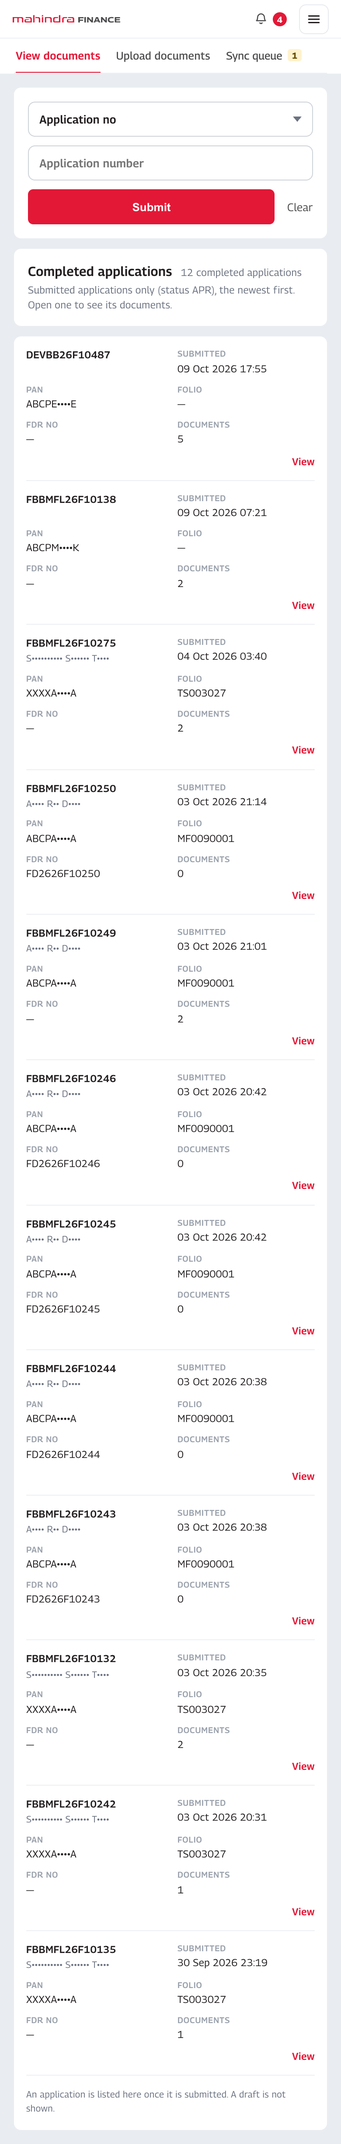
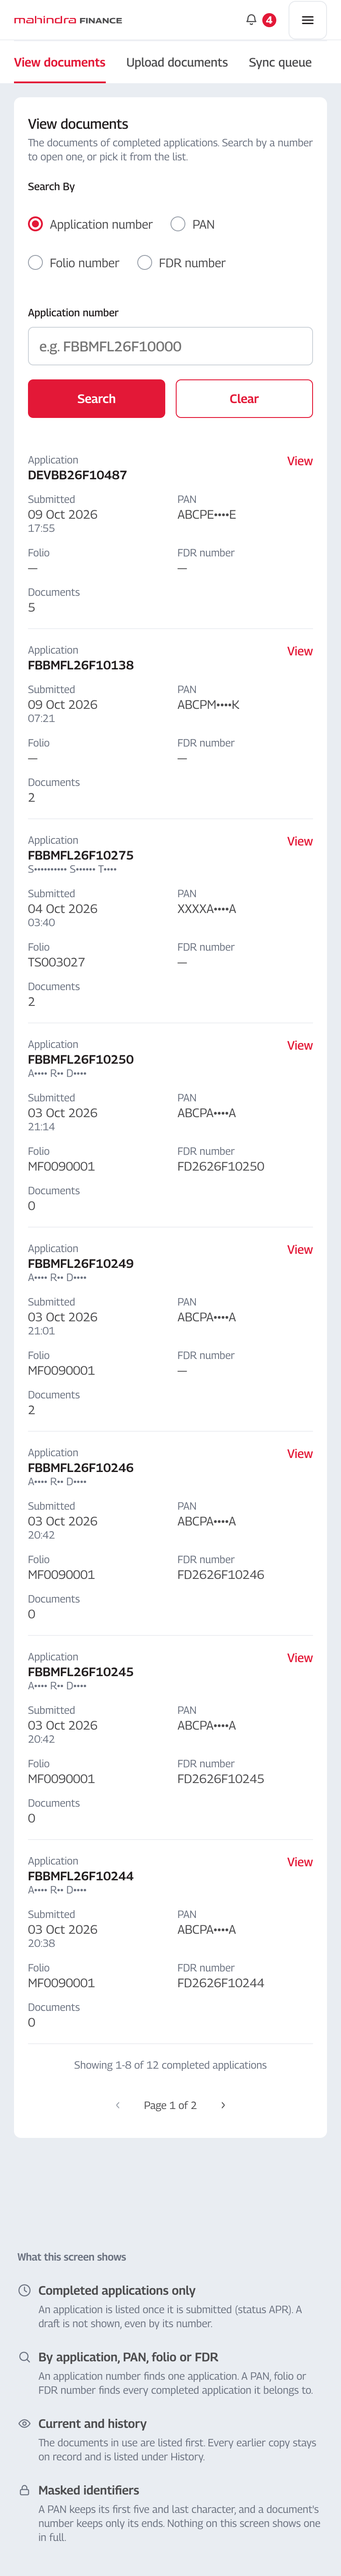
Screenshots: DMS Explorer retaken on Uno TP's look
Steps 72 to 83 again, now that DMS Explorer uses Uno TP's shared styles:
the page frame and its notes, the type, Search By with Search and Clear,
the list table with pages of eight, the blue filters and switch.

diff --git a/index.html b/index.html
@@ -61,7 +61,7 @@
   <div class="stage" id="stage"></div>
 </main>
 <script>
-var steps = [{"step": 1, "group": "Dashboard", "note": "Dashboard, with the incomplete applications", "desktop": "desktop/01-dashboard.png", "mobile": "mobile/01-dashboard.png"}, {"step": 2, "group": "Investor Identification", "note": "Investor Identification as it opens", "desktop": "desktop/02-search-empty.png", "mobile": "mobile/02-search-empty.png"}, {"step": 3, "group": "Investor Identification", "note": "PAN and date of birth not filled in properly", "desktop": "desktop/03-search-invalid.png", "mobile": "mobile/03-search-invalid.png"}, {"step": 4, "group": "Investor Identification", "note": "A PAN with no folio: new investor", "desktop": "desktop/04-search-new-investor.png", "mobile": "mobile/04-search-new-investor.png"}, {"step": 5, "group": "Investor Identification", "note": "A PAN on a folio: the record and the deposits held", "desktop": "desktop/05-search-folio-holder.png", "mobile": "mobile/05-search-folio-holder.png"}, {"step": 6, "group": "Upload Documents - fresh investor", "note": "Upload Documents as a new application opens", "desktop": "desktop/06-upload-opened.png", "mobile": "mobile/06-upload-opened.png"}, {"step": 7, "group": "Upload Documents - fresh investor", "note": "Proceed with nothing filed: what is missing", "desktop": "desktop/07-upload-proceed-nothing-filed.png", "mobile": "mobile/07-upload-proceed-nothing-filed.png"}, {"step": 8, "group": "Upload Documents - fresh investor", "note": "PAN copy filed: read by OCR and verified with NSDL", "desktop": "desktop/08-upload-pan-verified.png", "mobile": "mobile/08-upload-pan-verified.png"}, {"step": 9, "group": "Upload Documents - fresh investor", "note": "Proof of address filed: a passport, address read off it", "desktop": "desktop/09-upload-poa-passport.png", "mobile": "mobile/09-upload-poa-passport.png"}, {"step": 10, "group": "Upload Documents - fresh investor", "note": "Photograph filed", "desktop": "desktop/10-upload-photo.png", "mobile": "mobile/10-upload-photo.png"}, {"step": 11, "group": "Upload Documents - fresh investor", "note": "A physical application, as a new one starts: the signed application form filed", "desktop": "desktop/11-upload-application-form.png", "mobile": "mobile/11-upload-application-form.png"}, {"step": 12, "group": "Upload Documents - fresh investor", "note": "Payment mode Cheque, with the cheque copy", "desktop": "desktop/12-upload-payment-cheque.png", "mobile": "mobile/12-upload-payment-cheque.png"}, {"step": 13, "group": "Upload Documents - fresh investor", "note": "Sourcing chosen and the form number typed; the category is set by the app", "desktop": "desktop/13-upload-sourcing-and-category.png", "mobile": "mobile/13-upload-sourcing-and-category.png"}, {"step": 14, "group": "Upload Documents - fresh investor", "note": "Upload Documents with everything on it", "desktop": "desktop/14-upload-complete.png", "mobile": "mobile/14-upload-complete.png"}, {"step": 15, "group": "Upload Documents - cases", "note": "NSDL holds the PAN and date of birth under another name: the name is typed", "desktop": "desktop/15-upload-nsdl-name-differs.png", "mobile": "mobile/15-upload-nsdl-name-differs.png"}, {"step": 16, "group": "Upload Documents - cases", "note": "NSDL does not hold the PAN and date of birth: upload again", "desktop": "desktop/16-upload-nsdl-failed.png", "mobile": "mobile/16-upload-nsdl-failed.png"}, {"step": 17, "group": "Upload Documents - cases", "note": "NSDL not answering", "desktop": "desktop/17-upload-nsdl-not-answering.png", "mobile": "mobile/17-upload-nsdl-not-answering.png"}, {"step": 18, "group": "Upload Documents - cases", "note": "Aadhaar as proof of address: last 4 digits read, the first 8 are typed", "desktop": "desktop/18-upload-aadhaar-last-four.png", "mobile": "mobile/18-upload-aadhaar-last-four.png"}, {"step": 19, "group": "Upload Documents - cases", "note": "Aadhaar number completed: PAN-Aadhaar link checked", "desktop": "desktop/19-upload-aadhaar-number-entered.png", "mobile": "mobile/19-upload-aadhaar-number-entered.png"}, {"step": 20, "group": "Upload Documents - cases", "note": "Aadhaar masking failed: nothing is filed", "desktop": "desktop/20-upload-aadhaar-masking-failed.png", "mobile": "mobile/20-upload-aadhaar-masking-failed.png"}, {"step": 21, "group": "Upload Documents - cases", "note": "Fetch from CKYC: the question before it is fetched", "desktop": "desktop/21-upload-fetch-from-ckyc.png", "mobile": "mobile/21-upload-fetch-from-ckyc.png"}, {"step": 22, "group": "Folio holder", "note": "Upload Documents for a holder on a folio: documents on record are not asked again", "desktop": "desktop/22-upload-folio-holder.png", "mobile": "mobile/22-upload-folio-holder.png"}, {"step": 23, "group": "Folio holder", "note": "Investor Information for a holder on a folio: details from the record", "desktop": "desktop/23-investor-folio-holder.png", "mobile": "mobile/23-investor-folio-holder.png"}, {"step": 24, "group": "Investor Information", "note": "Investor Information as it opens for a new investor", "desktop": "desktop/24-investor-opened.png", "mobile": "mobile/24-investor-opened.png"}, {"step": 25, "group": "Investor Information", "note": "Proceed with nothing entered, the nominee question skipped: each field says what it needs", "desktop": "desktop/25-investor-proceed-nothing-entered.png", "mobile": "mobile/25-investor-proceed-nothing-entered.png"}, {"step": 26, "group": "Investor Information", "note": "Investor Information filled in", "desktop": "desktop/26-investor-filled.png", "mobile": "mobile/26-investor-filled.png"}, {"step": 27, "group": "Investor Information", "note": "Proceed with no nominee: the question before going on", "desktop": "desktop/27-investor-nominee-question.png", "mobile": "mobile/27-investor-nominee-question.png"}, {"step": 28, "group": "Investor Information", "note": "Investor Information with a joint holder on the application", "desktop": "desktop/28-investor-with-joint-holder.png", "mobile": "mobile/28-investor-with-joint-holder.png"}, {"step": 29, "group": "Bank Details & Payment", "note": "Bank Details & Payment as it opens (payment by cheque)", "desktop": "desktop/29-bank-opened.png", "mobile": "mobile/29-bank-opened.png"}, {"step": 30, "group": "Bank Details & Payment", "note": "Proceed with no bank chosen", "desktop": "desktop/30-bank-proceed-nothing-entered.png", "mobile": "mobile/30-bank-proceed-nothing-entered.png"}, {"step": 31, "group": "Bank Details & Payment", "note": "Bank search as it is typed", "desktop": "desktop/31-bank-search-as-typed.png", "mobile": "mobile/31-bank-search-as-typed.png"}, {"step": 32, "group": "Bank Details & Payment", "note": "Payment and repayment accounts and the cheque details filled in", "desktop": "desktop/32-bank-filled.png", "mobile": "mobile/32-bank-filled.png"}, {"step": 33, "group": "FD Configuration", "note": "FD Configuration as it opens", "desktop": "desktop/33-deposit-opened.png", "mobile": "mobile/33-deposit-opened.png"}, {"step": 34, "group": "FD Configuration", "note": "Proceed with no amount", "desktop": "desktop/34-deposit-proceed-no-amount.png", "mobile": "mobile/34-deposit-proceed-no-amount.png"}, {"step": 35, "group": "FD Configuration", "note": "An amount entered: the rate and the quote", "desktop": "desktop/35-deposit-quote.png", "mobile": "mobile/35-deposit-quote.png"}, {"step": 36, "group": "FD Configuration", "note": "Deposits with us pass 1 crore and income is up to 5 lakh: source of funds asked", "desktop": "desktop/36-deposit-source-of-funds-asked.png", "mobile": "mobile/36-deposit-source-of-funds-asked.png"}, {"step": 37, "group": "Review Summary", "note": "Review Summary: nothing missing", "desktop": "desktop/37-review-ready.png", "mobile": "mobile/37-review-ready.png"}, {"step": 38, "group": "Review Summary", "note": "Review Summary with things still missing, by step", "desktop": "desktop/38-review-things-missing-folio.png", "mobile": "mobile/38-review-things-missing-folio.png"}, {"step": 39, "group": "Review Summary", "note": "Review Summary with nothing missing", "desktop": "desktop/39-review-ready-to-submit.png", "mobile": "mobile/39-review-ready-to-submit.png"}, {"step": 40, "group": "Review Summary", "note": "Submit Application: Try later, or Submit & send link", "desktop": "desktop/40-review-submit-popup.png", "mobile": "mobile/40-review-submit-popup.png"}, {"step": 41, "group": "Review Summary", "note": "Application Submitted after Try later: no link sent yet", "desktop": "desktop/41-submitted-no-link-yet.png", "mobile": "mobile/41-submitted-no-link-yet.png"}, {"step": 42, "group": "Review Summary", "note": "Application Submitted with the payment link sent", "desktop": "desktop/42-submitted-link-sent.png", "mobile": "mobile/42-submitted-link-sent.png"}, {"step": 43, "group": "Renew FD", "note": "Renew FD opens Investor Identification, where the investor is searched (switched off in settings; shown with its switch on)", "desktop": "desktop/43-renew-search-opened.png", "mobile": "mobile/43-renew-search-opened.png"}, {"step": 44, "group": "Renew FD", "note": "The investor searched by folio number", "desktop": "desktop/44-renew-search-by-folio.png", "mobile": "mobile/44-renew-search-by-folio.png"}, {"step": 45, "group": "Renew FD", "note": "After the search: the investor's record, and under it their deposits, each with where it stands. Renew is on the one that is due", "desktop": "desktop/45-renew-deposits-listed.png", "mobile": "mobile/45-renew-deposits-listed.png"}, {"step": 46, "group": "Renew FD", "note": "The deposits, with the renewal notes opened", "desktop": "desktop/46-renew-notes-opened.png", "mobile": "mobile/46-renew-notes-opened.png"}, {"step": 47, "group": "Renew FD", "note": "Renew pressed: the renewal opens at Upload Documents, naming the deposit it renews. No payment: the maturing deposit pays for the new one", "desktop": "desktop/47-renew-upload-opened.png", "mobile": "mobile/47-renew-upload-opened.png"}, {"step": 48, "group": "Renew FD", "note": "Investor Information of the renewal: the holder from the folio record", "desktop": "desktop/48-renew-investor.png", "mobile": "mobile/48-renew-investor.png"}, {"step": 49, "group": "Renew FD", "note": "Bank Details of the renewal: only the repayment account, filled in from the deposit being renewed", "desktop": "desktop/49-renew-bank.png", "mobile": "mobile/49-renew-bank.png"}, {"step": 50, "group": "Renew FD", "note": "FD Configuration of the renewal: the amount is the maturity amount of the deposit, with Renewal for", "desktop": "desktop/50-renew-deposit.png", "mobile": "mobile/50-renew-deposit.png"}, {"step": 51, "group": "Renew FD", "note": "Review Summary of the renewal, with what is still missing", "desktop": "desktop/51-renew-review.png", "mobile": "mobile/51-renew-review.png"}, {"step": 52, "group": "Renew FD", "note": "Back on Investor Identification: the deposit now says Renewal in progress, with Continue and Cancel request", "desktop": "desktop/52-renew-in-progress.png", "mobile": "mobile/52-renew-in-progress.png"}, {"step": 53, "group": "Renew FD", "note": "Cancel request, once confirmed: the renewal is cancelled and the deposit is due for renewal again", "desktop": "desktop/53-renew-cancelled.png", "mobile": "mobile/53-renew-cancelled.png"}, {"step": 54, "group": "Lists", "note": "View Application: the list (switched off in settings; shown with its switch on)", "desktop": "desktop/54-view-application-list.png", "mobile": "mobile/54-view-application-list.png"}, {"step": 55, "group": "Lists", "note": "View Application: found by application number", "desktop": "desktop/55-view-application-by-number.png", "mobile": "mobile/55-view-application-by-number.png"}, {"step": 56, "group": "Lists", "note": "View Application: the details sheet", "desktop": "desktop/56-view-application-details.png", "mobile": "mobile/56-view-application-details.png"}, {"step": 57, "group": "Lists", "note": "PIS Generation - Axis (switched off in settings; shown with its switch on)", "desktop": "desktop/57-pay-in-slips.png", "mobile": "mobile/57-pay-in-slips.png"}, {"step": 58, "group": "Lists", "note": "Short URL (switched off in settings; shown with its switch on)", "desktop": "desktop/58-short-url.png", "mobile": "mobile/58-short-url.png"}, {"step": 59, "group": "Lists", "note": "Console Admin (switched off in settings; shown with its switch on)", "desktop": "desktop/59-console-admin.png", "mobile": "mobile/59-console-admin.png"}, {"step": 60, "group": "Other pages", "note": "Session expired", "desktop": "desktop/60-session-expired.png", "mobile": "mobile/60-session-expired.png"}, {"step": 61, "group": "Other pages", "note": "Not authorised", "desktop": "desktop/61-unauthorized.png", "mobile": "mobile/61-unauthorized.png"}, {"step": 62, "group": "Other pages", "note": "Too many requests", "desktop": "desktop/62-too-many-requests.png", "mobile": "mobile/62-too-many-requests.png"}, {"step": 63, "group": "Other pages", "note": "Something went wrong", "desktop": "desktop/63-error.png", "mobile": "mobile/63-error.png"}, {"step": 64, "group": "Other pages", "note": "Page expired", "desktop": "desktop/64-page-expired.png", "mobile": "mobile/64-page-expired.png"}, {"step": 65, "group": "OVD Explorer", "note": "OVD Explorer as it opens", "desktop": "desktop/65-ovd-empty.png", "mobile": "mobile/65-ovd-empty.png"}, {"step": 66, "group": "OVD Explorer", "note": "Looked up by application number: its officially valid documents", "desktop": "desktop/66-ovd-application.png", "mobile": "mobile/66-ovd-application.png"}, {"step": 67, "group": "OVD Explorer", "note": "Another document opened in the details panel", "desktop": "desktop/67-ovd-second-document.png", "mobile": "mobile/67-ovd-second-document.png"}, {"step": 68, "group": "OVD Explorer", "note": "Filtered to the verified documents", "desktop": "desktop/68-ovd-verified-only.png", "mobile": "mobile/68-ovd-verified-only.png"}, {"step": 69, "group": "OVD Explorer", "note": "Looked up by PAN: every completed application of that holder", "desktop": "desktop/69-ovd-pan.png", "mobile": "mobile/69-ovd-pan.png"}, {"step": 70, "group": "OVD Explorer", "note": "Looked up by folio number", "desktop": "desktop/70-ovd-folio.png", "mobile": "mobile/70-ovd-folio.png"}, {"step": 71, "group": "OVD Explorer", "note": "A draft application is not shown: only completed ones are", "desktop": "desktop/71-ovd-draft-not-found.png", "mobile": "mobile/71-ovd-draft-not-found.png"}, {"step": 72, "group": "DMS Explorer", "note": "View documents: the completed applications (status APR), newest first", "desktop": "desktop/72-dms-completed-applications.png", "mobile": "mobile/72-dms-completed-applications.png"}, {"step": 73, "group": "DMS Explorer", "note": "An application opened: the documents in use on it", "desktop": "desktop/73-dms-application-documents.png", "mobile": "mobile/73-dms-application-documents.png"}, {"step": 74, "group": "DMS Explorer", "note": "Another document opened in the viewer", "desktop": "desktop/74-dms-document-viewed.png", "mobile": "mobile/74-dms-document-viewed.png"}, {"step": 75, "group": "DMS Explorer", "note": "Filtered to the FD class: the application's own documents", "desktop": "desktop/75-dms-class-filter.png", "mobile": "mobile/75-dms-class-filter.png"}, {"step": 76, "group": "DMS Explorer", "note": "History: every copy filed on the application, newest first", "desktop": "desktop/76-dms-history.png", "mobile": "mobile/76-dms-history.png"}, {"step": 77, "group": "DMS Explorer", "note": "Looked up by PAN: every completed application it belongs to", "desktop": "desktop/77-dms-lookup-by-pan.png", "mobile": "mobile/77-dms-lookup-by-pan.png"}, {"step": 78, "group": "DMS Explorer", "note": "Looked up by FDR number: a completed application with no documents recorded", "desktop": "desktop/78-dms-no-documents.png", "mobile": "mobile/78-dms-no-documents.png"}, {"step": 79, "group": "DMS Explorer", "note": "A draft looked up by its number: only a completed application is shown", "desktop": "desktop/79-dms-not-completed.png", "mobile": "mobile/79-dms-not-completed.png"}, {"step": 80, "group": "DMS Explorer", "note": "Upload documents as it opens (prototype)", "desktop": "desktop/80-dms-upload-opened.png", "mobile": "mobile/80-dms-upload-opened.png"}, {"step": 81, "group": "DMS Explorer", "note": "Upload pressed with nothing entered", "desktop": "desktop/81-dms-upload-nothing-entered.png", "mobile": "mobile/81-dms-upload-nothing-entered.png"}, {"step": 82, "group": "DMS Explorer", "note": "Upload documents filled in: the name the file will be filed as", "desktop": "desktop/82-dms-upload-filled.png", "mobile": "mobile/82-dms-upload-filled.png"}, {"step": 83, "group": "DMS Explorer", "note": "Uploaded (prototype: nothing is sent or stored)", "desktop": "desktop/83-dms-upload-done.png", "mobile": "mobile/83-dms-upload-done.png"}];
+var steps = [{"step": 1, "group": "Dashboard", "note": "Dashboard, with the incomplete applications", "desktop": "desktop/01-dashboard.png", "mobile": "mobile/01-dashboard.png"}, {"step": 2, "group": "Investor Identification", "note": "Investor Identification as it opens", "desktop": "desktop/02-search-empty.png", "mobile": "mobile/02-search-empty.png"}, {"step": 3, "group": "Investor Identification", "note": "PAN and date of birth not filled in properly", "desktop": "desktop/03-search-invalid.png", "mobile": "mobile/03-search-invalid.png"}, {"step": 4, "group": "Investor Identification", "note": "A PAN with no folio: new investor", "desktop": "desktop/04-search-new-investor.png", "mobile": "mobile/04-search-new-investor.png"}, {"step": 5, "group": "Investor Identification", "note": "A PAN on a folio: the record and the deposits held", "desktop": "desktop/05-search-folio-holder.png", "mobile": "mobile/05-search-folio-holder.png"}, {"step": 6, "group": "Upload Documents - fresh investor", "note": "Upload Documents as a new application opens", "desktop": "desktop/06-upload-opened.png", "mobile": "mobile/06-upload-opened.png"}, {"step": 7, "group": "Upload Documents - fresh investor", "note": "Proceed with nothing filed: what is missing", "desktop": "desktop/07-upload-proceed-nothing-filed.png", "mobile": "mobile/07-upload-proceed-nothing-filed.png"}, {"step": 8, "group": "Upload Documents - fresh investor", "note": "PAN copy filed: read by OCR and verified with NSDL", "desktop": "desktop/08-upload-pan-verified.png", "mobile": "mobile/08-upload-pan-verified.png"}, {"step": 9, "group": "Upload Documents - fresh investor", "note": "Proof of address filed: a passport, address read off it", "desktop": "desktop/09-upload-poa-passport.png", "mobile": "mobile/09-upload-poa-passport.png"}, {"step": 10, "group": "Upload Documents - fresh investor", "note": "Photograph filed", "desktop": "desktop/10-upload-photo.png", "mobile": "mobile/10-upload-photo.png"}, {"step": 11, "group": "Upload Documents - fresh investor", "note": "A physical application, as a new one starts: the signed application form filed", "desktop": "desktop/11-upload-application-form.png", "mobile": "mobile/11-upload-application-form.png"}, {"step": 12, "group": "Upload Documents - fresh investor", "note": "Payment mode Cheque, with the cheque copy", "desktop": "desktop/12-upload-payment-cheque.png", "mobile": "mobile/12-upload-payment-cheque.png"}, {"step": 13, "group": "Upload Documents - fresh investor", "note": "Sourcing chosen and the form number typed; the category is set by the app", "desktop": "desktop/13-upload-sourcing-and-category.png", "mobile": "mobile/13-upload-sourcing-and-category.png"}, {"step": 14, "group": "Upload Documents - fresh investor", "note": "Upload Documents with everything on it", "desktop": "desktop/14-upload-complete.png", "mobile": "mobile/14-upload-complete.png"}, {"step": 15, "group": "Upload Documents - cases", "note": "NSDL holds the PAN and date of birth under another name: the name is typed", "desktop": "desktop/15-upload-nsdl-name-differs.png", "mobile": "mobile/15-upload-nsdl-name-differs.png"}, {"step": 16, "group": "Upload Documents - cases", "note": "NSDL does not hold the PAN and date of birth: upload again", "desktop": "desktop/16-upload-nsdl-failed.png", "mobile": "mobile/16-upload-nsdl-failed.png"}, {"step": 17, "group": "Upload Documents - cases", "note": "NSDL not answering", "desktop": "desktop/17-upload-nsdl-not-answering.png", "mobile": "mobile/17-upload-nsdl-not-answering.png"}, {"step": 18, "group": "Upload Documents - cases", "note": "Aadhaar as proof of address: last 4 digits read, the first 8 are typed", "desktop": "desktop/18-upload-aadhaar-last-four.png", "mobile": "mobile/18-upload-aadhaar-last-four.png"}, {"step": 19, "group": "Upload Documents - cases", "note": "Aadhaar number completed: PAN-Aadhaar link checked", "desktop": "desktop/19-upload-aadhaar-number-entered.png", "mobile": "mobile/19-upload-aadhaar-number-entered.png"}, {"step": 20, "group": "Upload Documents - cases", "note": "Aadhaar masking failed: nothing is filed", "desktop": "desktop/20-upload-aadhaar-masking-failed.png", "mobile": "mobile/20-upload-aadhaar-masking-failed.png"}, {"step": 21, "group": "Upload Documents - cases", "note": "Fetch from CKYC: the question before it is fetched", "desktop": "desktop/21-upload-fetch-from-ckyc.png", "mobile": "mobile/21-upload-fetch-from-ckyc.png"}, {"step": 22, "group": "Folio holder", "note": "Upload Documents for a holder on a folio: documents on record are not asked again", "desktop": "desktop/22-upload-folio-holder.png", "mobile": "mobile/22-upload-folio-holder.png"}, {"step": 23, "group": "Folio holder", "note": "Investor Information for a holder on a folio: details from the record", "desktop": "desktop/23-investor-folio-holder.png", "mobile": "mobile/23-investor-folio-holder.png"}, {"step": 24, "group": "Investor Information", "note": "Investor Information as it opens for a new investor", "desktop": "desktop/24-investor-opened.png", "mobile": "mobile/24-investor-opened.png"}, {"step": 25, "group": "Investor Information", "note": "Proceed with nothing entered, the nominee question skipped: each field says what it needs", "desktop": "desktop/25-investor-proceed-nothing-entered.png", "mobile": "mobile/25-investor-proceed-nothing-entered.png"}, {"step": 26, "group": "Investor Information", "note": "Investor Information filled in", "desktop": "desktop/26-investor-filled.png", "mobile": "mobile/26-investor-filled.png"}, {"step": 27, "group": "Investor Information", "note": "Proceed with no nominee: the question before going on", "desktop": "desktop/27-investor-nominee-question.png", "mobile": "mobile/27-investor-nominee-question.png"}, {"step": 28, "group": "Investor Information", "note": "Investor Information with a joint holder on the application", "desktop": "desktop/28-investor-with-joint-holder.png", "mobile": "mobile/28-investor-with-joint-holder.png"}, {"step": 29, "group": "Bank Details & Payment", "note": "Bank Details & Payment as it opens (payment by cheque)", "desktop": "desktop/29-bank-opened.png", "mobile": "mobile/29-bank-opened.png"}, {"step": 30, "group": "Bank Details & Payment", "note": "Proceed with no bank chosen", "desktop": "desktop/30-bank-proceed-nothing-entered.png", "mobile": "mobile/30-bank-proceed-nothing-entered.png"}, {"step": 31, "group": "Bank Details & Payment", "note": "Bank search as it is typed", "desktop": "desktop/31-bank-search-as-typed.png", "mobile": "mobile/31-bank-search-as-typed.png"}, {"step": 32, "group": "Bank Details & Payment", "note": "Payment and repayment accounts and the cheque details filled in", "desktop": "desktop/32-bank-filled.png", "mobile": "mobile/32-bank-filled.png"}, {"step": 33, "group": "FD Configuration", "note": "FD Configuration as it opens", "desktop": "desktop/33-deposit-opened.png", "mobile": "mobile/33-deposit-opened.png"}, {"step": 34, "group": "FD Configuration", "note": "Proceed with no amount", "desktop": "desktop/34-deposit-proceed-no-amount.png", "mobile": "mobile/34-deposit-proceed-no-amount.png"}, {"step": 35, "group": "FD Configuration", "note": "An amount entered: the rate and the quote", "desktop": "desktop/35-deposit-quote.png", "mobile": "mobile/35-deposit-quote.png"}, {"step": 36, "group": "FD Configuration", "note": "Deposits with us pass 1 crore and income is up to 5 lakh: source of funds asked", "desktop": "desktop/36-deposit-source-of-funds-asked.png", "mobile": "mobile/36-deposit-source-of-funds-asked.png"}, {"step": 37, "group": "Review Summary", "note": "Review Summary: nothing missing", "desktop": "desktop/37-review-ready.png", "mobile": "mobile/37-review-ready.png"}, {"step": 38, "group": "Review Summary", "note": "Review Summary with things still missing, by step", "desktop": "desktop/38-review-things-missing-folio.png", "mobile": "mobile/38-review-things-missing-folio.png"}, {"step": 39, "group": "Review Summary", "note": "Review Summary with nothing missing", "desktop": "desktop/39-review-ready-to-submit.png", "mobile": "mobile/39-review-ready-to-submit.png"}, {"step": 40, "group": "Review Summary", "note": "Submit Application: Try later, or Submit & send link", "desktop": "desktop/40-review-submit-popup.png", "mobile": "mobile/40-review-submit-popup.png"}, {"step": 41, "group": "Review Summary", "note": "Application Submitted after Try later: no link sent yet", "desktop": "desktop/41-submitted-no-link-yet.png", "mobile": "mobile/41-submitted-no-link-yet.png"}, {"step": 42, "group": "Review Summary", "note": "Application Submitted with the payment link sent", "desktop": "desktop/42-submitted-link-sent.png", "mobile": "mobile/42-submitted-link-sent.png"}, {"step": 43, "group": "Renew FD", "note": "Renew FD opens Investor Identification, where the investor is searched (switched off in settings; shown with its switch on)", "desktop": "desktop/43-renew-search-opened.png", "mobile": "mobile/43-renew-search-opened.png"}, {"step": 44, "group": "Renew FD", "note": "The investor searched by folio number", "desktop": "desktop/44-renew-search-by-folio.png", "mobile": "mobile/44-renew-search-by-folio.png"}, {"step": 45, "group": "Renew FD", "note": "After the search: the investor's record, and under it their deposits, each with where it stands. Renew is on the one that is due", "desktop": "desktop/45-renew-deposits-listed.png", "mobile": "mobile/45-renew-deposits-listed.png"}, {"step": 46, "group": "Renew FD", "note": "The deposits, with the renewal notes opened", "desktop": "desktop/46-renew-notes-opened.png", "mobile": "mobile/46-renew-notes-opened.png"}, {"step": 47, "group": "Renew FD", "note": "Renew pressed: the renewal opens at Upload Documents, naming the deposit it renews. No payment: the maturing deposit pays for the new one", "desktop": "desktop/47-renew-upload-opened.png", "mobile": "mobile/47-renew-upload-opened.png"}, {"step": 48, "group": "Renew FD", "note": "Investor Information of the renewal: the holder from the folio record", "desktop": "desktop/48-renew-investor.png", "mobile": "mobile/48-renew-investor.png"}, {"step": 49, "group": "Renew FD", "note": "Bank Details of the renewal: only the repayment account, filled in from the deposit being renewed", "desktop": "desktop/49-renew-bank.png", "mobile": "mobile/49-renew-bank.png"}, {"step": 50, "group": "Renew FD", "note": "FD Configuration of the renewal: the amount is the maturity amount of the deposit, with Renewal for", "desktop": "desktop/50-renew-deposit.png", "mobile": "mobile/50-renew-deposit.png"}, {"step": 51, "group": "Renew FD", "note": "Review Summary of the renewal, with what is still missing", "desktop": "desktop/51-renew-review.png", "mobile": "mobile/51-renew-review.png"}, {"step": 52, "group": "Renew FD", "note": "Back on Investor Identification: the deposit now says Renewal in progress, with Continue and Cancel request", "desktop": "desktop/52-renew-in-progress.png", "mobile": "mobile/52-renew-in-progress.png"}, {"step": 53, "group": "Renew FD", "note": "Cancel request, once confirmed: the renewal is cancelled and the deposit is due for renewal again", "desktop": "desktop/53-renew-cancelled.png", "mobile": "mobile/53-renew-cancelled.png"}, {"step": 54, "group": "Lists", "note": "View Application: the list (switched off in settings; shown with its switch on)", "desktop": "desktop/54-view-application-list.png", "mobile": "mobile/54-view-application-list.png"}, {"step": 55, "group": "Lists", "note": "View Application: found by application number", "desktop": "desktop/55-view-application-by-number.png", "mobile": "mobile/55-view-application-by-number.png"}, {"step": 56, "group": "Lists", "note": "View Application: the details sheet", "desktop": "desktop/56-view-application-details.png", "mobile": "mobile/56-view-application-details.png"}, {"step": 57, "group": "Lists", "note": "PIS Generation - Axis (switched off in settings; shown with its switch on)", "desktop": "desktop/57-pay-in-slips.png", "mobile": "mobile/57-pay-in-slips.png"}, {"step": 58, "group": "Lists", "note": "Short URL (switched off in settings; shown with its switch on)", "desktop": "desktop/58-short-url.png", "mobile": "mobile/58-short-url.png"}, {"step": 59, "group": "Lists", "note": "Console Admin (switched off in settings; shown with its switch on)", "desktop": "desktop/59-console-admin.png", "mobile": "mobile/59-console-admin.png"}, {"step": 60, "group": "Other pages", "note": "Session expired", "desktop": "desktop/60-session-expired.png", "mobile": "mobile/60-session-expired.png"}, {"step": 61, "group": "Other pages", "note": "Not authorised", "desktop": "desktop/61-unauthorized.png", "mobile": "mobile/61-unauthorized.png"}, {"step": 62, "group": "Other pages", "note": "Too many requests", "desktop": "desktop/62-too-many-requests.png", "mobile": "mobile/62-too-many-requests.png"}, {"step": 63, "group": "Other pages", "note": "Something went wrong", "desktop": "desktop/63-error.png", "mobile": "mobile/63-error.png"}, {"step": 64, "group": "Other pages", "note": "Page expired", "desktop": "desktop/64-page-expired.png", "mobile": "mobile/64-page-expired.png"}, {"step": 65, "group": "OVD Explorer", "note": "OVD Explorer as it opens", "desktop": "desktop/65-ovd-empty.png", "mobile": "mobile/65-ovd-empty.png"}, {"step": 66, "group": "OVD Explorer", "note": "Looked up by application number: its officially valid documents", "desktop": "desktop/66-ovd-application.png", "mobile": "mobile/66-ovd-application.png"}, {"step": 67, "group": "OVD Explorer", "note": "Another document opened in the details panel", "desktop": "desktop/67-ovd-second-document.png", "mobile": "mobile/67-ovd-second-document.png"}, {"step": 68, "group": "OVD Explorer", "note": "Filtered to the verified documents", "desktop": "desktop/68-ovd-verified-only.png", "mobile": "mobile/68-ovd-verified-only.png"}, {"step": 69, "group": "OVD Explorer", "note": "Looked up by PAN: every completed application of that holder", "desktop": "desktop/69-ovd-pan.png", "mobile": "mobile/69-ovd-pan.png"}, {"step": 70, "group": "OVD Explorer", "note": "Looked up by folio number", "desktop": "desktop/70-ovd-folio.png", "mobile": "mobile/70-ovd-folio.png"}, {"step": 71, "group": "OVD Explorer", "note": "A draft application is not shown: only completed ones are", "desktop": "desktop/71-ovd-draft-not-found.png", "mobile": "mobile/71-ovd-draft-not-found.png"}, {"step": 72, "group": "DMS Explorer", "note": "View documents: the completed applications (status APR), newest first, eight to a page", "desktop": "desktop/72-dms-completed-applications.png", "mobile": "mobile/72-dms-completed-applications.png"}, {"step": 73, "group": "DMS Explorer", "note": "An application opened: the documents in use on it", "desktop": "desktop/73-dms-application-documents.png", "mobile": "mobile/73-dms-application-documents.png"}, {"step": 74, "group": "DMS Explorer", "note": "Another document opened in the viewer", "desktop": "desktop/74-dms-document-viewed.png", "mobile": "mobile/74-dms-document-viewed.png"}, {"step": 75, "group": "DMS Explorer", "note": "Filtered to the FD class: the application's own documents", "desktop": "desktop/75-dms-class-filter.png", "mobile": "mobile/75-dms-class-filter.png"}, {"step": 76, "group": "DMS Explorer", "note": "History: every copy filed on the application, newest first", "desktop": "desktop/76-dms-history.png", "mobile": "mobile/76-dms-history.png"}, {"step": 77, "group": "DMS Explorer", "note": "Looked up by PAN: every completed application it belongs to", "desktop": "desktop/77-dms-lookup-by-pan.png", "mobile": "mobile/77-dms-lookup-by-pan.png"}, {"step": 78, "group": "DMS Explorer", "note": "Looked up by FDR number: a completed application with no documents recorded", "desktop": "desktop/78-dms-no-documents.png", "mobile": "mobile/78-dms-no-documents.png"}, {"step": 79, "group": "DMS Explorer", "note": "A draft looked up by its number: only a completed application is shown", "desktop": "desktop/79-dms-not-completed.png", "mobile": "mobile/79-dms-not-completed.png"}, {"step": 80, "group": "DMS Explorer", "note": "Upload documents as it opens (prototype)", "desktop": "desktop/80-dms-upload-opened.png", "mobile": "mobile/80-dms-upload-opened.png"}, {"step": 81, "group": "DMS Explorer", "note": "Upload pressed with nothing entered", "desktop": "desktop/81-dms-upload-nothing-entered.png", "mobile": "mobile/81-dms-upload-nothing-entered.png"}, {"step": 82, "group": "DMS Explorer", "note": "Upload documents filled in: the name the file will be filed as", "desktop": "desktop/82-dms-upload-filled.png", "mobile": "mobile/82-dms-upload-filled.png"}, {"step": 83, "group": "DMS Explorer", "note": "Uploaded (prototype: nothing is sent or stored)", "desktop": "desktop/83-dms-upload-done.png", "mobile": "mobile/83-dms-upload-done.png"}];
 var at = 0, view = 'desktop';
 var list = document.getElementById('list'), stage = document.getElementById('stage');
 var buttons = [];
